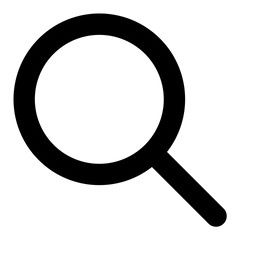
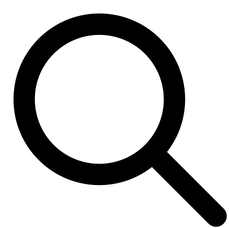
Footer finished

diff --git a/style.css b/style.css
@@ -6,39 +6,40 @@ body{
     margin: 0;
     padding:0;
 }
-
+.form-search{
+    padding: 0;
+    margin: 0;
+}
+.text{
+    width: 60%;
+    padding: 5px;
+    text-align: center;
+    font-family: inherit;
+    font-size: 100%;
+    border: none;
+}
+.magnifier{
+    width: 1%;
+    height: 2%;
+    position: absolute;
+    margin-top: 7px;
+    margin-left: 7px;
+}
 .logo{
     font-family: 'Great Vibes', cursive;
-    font-size: 200%;  
+    font-size: 250%;  
 }
-/*.search-button{
-    width: 12%;
-    border: none;
-    background-color: white;
-}*/
-.search-field {
-    border: 1px solid black;
-    width: 80%;
-    outline: none;
-    font-size: 1rem;
-}
-  
-.search-button {
-    border: 1px solid black;
-    background: transparent;
-    outline: none;
-    margin-left: -33px;
-}
-  
-.search-button img {
-    width: 30px;
-    height: 20px;
-    object-fit: cover;
+
+.top-nav .search {
+    width: 100%;
+    position: relative;
+    display: flex;
 }
 .navbar{
     width: 100%;
-    height: 10%;
-    padding: 5px 5px 5px 5px;
+    height: 20%;
+    padding: 5px;
+
 }
 .top-nav{
     width: 100%;
@@ -54,14 +55,13 @@ body{
 }
 .nav-list {
     width: 90%;
-    height: 10%;
     display: flex;
     list-style: none;
     justify-content: space-around;
-    font-size: 100%;
+    font-size: 90%;
 }
 .nav-list-item:hover{
-    font-family: Arial, Helvetica, sans-serif;
+    font-size: 110%;
 }
 .bottom-nav-link {
     text-decoration: none;
@@ -93,86 +93,163 @@ body{
     border-radius: 5px;
     height: 90%;
 }
+
 .grid-item1{
     background-image: url(pics/eggs-salad.avif);
     background-repeat: no-repeat;
     background-size:cover;
+}
+.grid-item1:hover{
+    width: 90%;
+    height: 80%;
+    margin: 5%;
+    cursor: pointer;
 }
 .grid-item2{
     background-image: url(pics/cheeseburger.jpg);
     background-repeat: no-repeat;
     background-size:cover;
 }
+.grid-item2:hover{
+    width: 90%;
+    height: 80%;
+    margin: 5%;
+    cursor: pointer;
+}
 .grid-item3{
     background-image: url(pics/pizza.avif);
     background-repeat: no-repeat;
     background-size:cover;
+}
+.grid-item3:hover{
+    width: 90%;
+    height: 80%;
+    margin: 5%;
+    cursor: pointer;
 }
 .grid-item4{
     background-image: url(pics/pancakes.jpg);
     background-repeat: no-repeat;
     background-size:cover;
 }
+.grid-item4:hover{
+    width: 90%;
+    height: 80%;
+    margin: 5%;
+    cursor: pointer;
+}
 .grid-item5{
     background-image: url(pics/pasta.avif);
     background-repeat: no-repeat;
     background-size:cover;
 }
+.grid-item5:hover{
+    width: 90%;
+    height: 80%;
+    margin: 5%;
+    cursor: pointer;
+}
 .grid-item6{
-    background-image: url(pics/eggs-salad.avif);
+    background-image: url(pics/ceaser.jpg);
     background-repeat: no-repeat;
     background-size:cover;
+}
+.grid-item6:hover{
+    width: 90%;
+    height: 80%;
+    margin: 5%;
+    cursor: pointer;
 }
 .grid-item7{
     background-image: url(pics/oatmeal.jpg);
     background-repeat: no-repeat;
     background-size:cover;
 }
+.grid-item7:hover{
+    width: 90%;
+    height: 80%;
+    margin: 5%;
+    cursor: pointer;
+}
 .grid-item8{
     background-image: url(pics/red-velvet.avif);
     background-repeat: no-repeat;
     background-size:cover;
 }
+.grid-item8:hover{
+    width: 90%;
+    height: 80%;
+    margin: 5%;
+    cursor: pointer;
+}
 .grid-item9{
-    background-image: url(pics/eggs-salad.avif);
+    background-image: url(pics/fish.jpg);
     background-repeat: no-repeat;
     background-size:cover;
+}
+.grid-item9:hover{
+    width: 90%;
+    height: 80%;
+    margin: 5%;
+    cursor: pointer;
 }
 footer{
     background-color: black;
     height: 20%;
     width: 100%;
-    padding: 5px 5px 5px 5px;
+    padding: 3px;
+    text-align: center;
 }
 .footer-nav-list {
     width: 90%;
     display: flex;
-    justify-content: center;
+    justify-content:center;
     color: white;
     list-style: none;
+    padding:0 5%;
+    margin: auto;
 }
 .footer-nav-link{
     color: white;
     text-decoration: none;
 }
 .list-item{
-    padding-right: 10%;
-    border: 1px solid white;
-    text-align: center;
+    border-right: 2px solid white;
+    margin-bottom: 0;
+    margin-top: 1%;
+    padding-right: 5%;
+    padding-left: 5%;
+}
+.list-item-no-border{
+    border: none;
 }
 .social{
     text-align: center;
 }
 .fa {
-    padding: 20px;
-    width: 50px;
-    text-align: center;
+    width: 4%;
     text-decoration: none;
     margin-bottom: 20px;
     color: white;
+    padding: 0;
+    margin: 1% 0 0 0;
 }
 #copyright{
     text-align: center;
     color: white;
+    padding: 0;
+    margin: 5px;
+}
+@media screen and (max-width: 480px) {
+    .container {
+        grid-template-columns: repeat (1, 1fr) ;
+        grid-template-rows: repeat (9, 1fr);
+    }
+}
+@media screen and (min-width: 481px) and (max-width: 768px) {
+    .container {
+        grid-template-columns: repeat (2, 1fr) ;
+        grid-template-rows: repeat (5, 1fr);
+    }
 }
 

diff --git a/index.html b/index.html
@@ -13,11 +13,9 @@
         <div class="top-nav">
             <div class="logo">Food blog</div>
             <div class="search-button"> 
-                <form action="/" method="GET" class="form">
-                    <input type="search" placeholder="Search" class="search-field" />
-                    <button type="submit" class="search-button">
-                        <img src="pics/search.png">
-                    </button>
+                <form action="/" class="form-search">
+                    <input class="text" type="text" placeholder="Recipes">
+                    <a href=""><img class="magnifier" src="pics/search.png" alt=""></a>
                 </form>
             </div>
         </div><hr id="nav-hr">
@@ -64,7 +62,7 @@
             <p class="card-food">Pasta <br><br>Zuchinni Pasta</p>
         </div>
         <div class="grid-items grid-item6">
-            <p class="card-food">Easy <br><br> Eggs Salad</p>
+            <p class="card-food">Easy <br><br> Ceaser Salad</p>
         </div>
         <div class="grid-items grid-item7">
             <p class="card-food">Breakfast <br><br>Fruits Oatmeal</p>
@@ -73,32 +71,32 @@
             <p class="card-food">Dessert <br><br>Red Velvet Cake</p>
         </div>
         <div class="grid-items grid-item9">
-            <p class="card-food">Easy <br><br>Eggs Salad</p>
+            <p class="card-food">Fish <br><br>Lachs Salad</p>
         </div>
     </div>
     <footer>
         <nav class="navbar-footer">
             <ul class="footer-nav-list">
                 <li class="list-item">
-                    <a class="footer-nav-link" href="">About |</a>
+                    <a class="footer-nav-link" href="">About</a>
                 </li>
                 <li class="list-item">
-                    <a class="footer-nav-link" href="">Recipes |</a>
+                    <a class="footer-nav-link" href="">Recipes</a>
                 </li>
                 <li class="list-item">
-                    <a class="footer-nav-link" href="">FAQ |</a>
+                    <a class="footer-nav-link" href="">FAQ</a>
                 </li>
-                <li class="list-item">
+                <li class="list-item list-item-no-border">
                     <a class="footer-nav-link" href="">Contact us</a>
                 </li>
             </ul>
         </nav>
         <div class="Social">
-            <a id="social" href="#" class="fa fa-facebook"></a>
             <a id="social" href="#" class="fa fa-instagram"></a>
+            <a id="social" href="#" class="fa fa-facebook"></a>
             <a id="social" href="#" class="fa fa-youtube"></a>
         </div>
-        <p id="copyright">Copyright 2022 Tamara Zolnajic</p>
+        <p id="copyright">Copyright &copy; 2022 Tamara Zolnajic</p>
     </footer>
 </body>
 </html>
